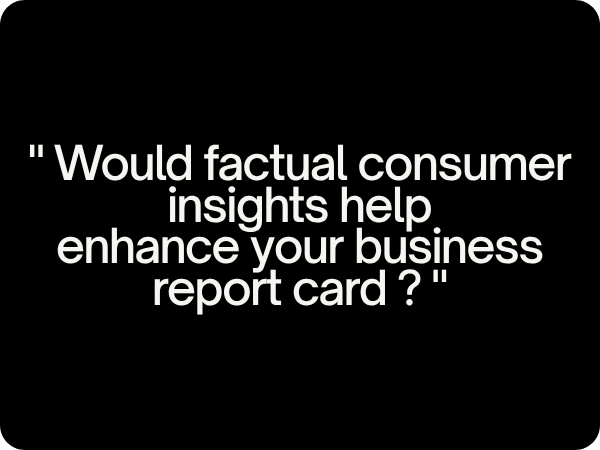
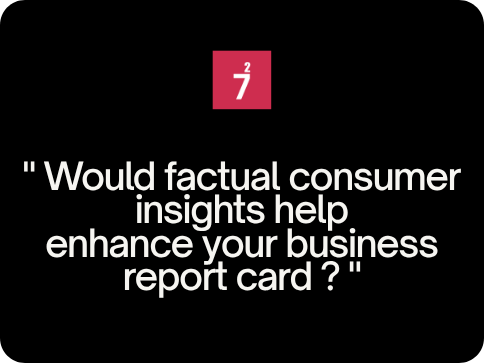
Hero Image

diff --git a/index.html b/index.html
@@ -1,4 +1,4 @@
-<!DOCTYPE html PUBLIC "-//W3C//DTD XHTML 1.0 Transitional//EN" "http://www.w3.org/TR/xhtml1/DTD/xhtml1-transitional.dtd"><html><head><meta name="viewport" content="width=device-width, initial-scale=1.0"><link rel="preload" as="image" href="images/c43ea1fd86c2809b867e1a71cf5d37f9.png"><meta http-equiv="Content-Type" content="text/html; charset=UTF-8"><meta name="format-detection" content="telephone=no, date=no, address=no, email=no"><meta name="x-apple-disable-message-reformatting"><meta name="keywords" content="DAG1_gGXu6g, BAFpv_WpB08"><!--[if mso]><div>
+<!DOCTYPE html PUBLIC "-//W3C//DTD XHTML 1.0 Transitional//EN" "http://www.w3.org/TR/xhtml1/DTD/xhtml1-transitional.dtd"><html><head><meta name="viewport" content="width=device-width, initial-scale=1.0"><link rel="preload" as="image" href="images/92f59e16664be76fd266f2fcb0073bc9.png"><meta http-equiv="Content-Type" content="text/html; charset=UTF-8"><meta name="format-detection" content="telephone=no, date=no, address=no, email=no"><meta name="x-apple-disable-message-reformatting"><meta name="keywords" content="DAG1_gGXu6g, BAFpv_WpB08"><!--[if mso]><div>
                 <noscript>
                   <xml>
                     <o:OfficeDocumentSettings>
@@ -22,8 +22,8 @@
                           <td><![endif]--><table align="center" width="100%" border="0" cellpadding="0" cellspacing="0" role="presentation" style="max-width:600px;margin:0 auto;background-color:#ffffff"><tbody><tr><td style="padding:10px
            0px
            0px
-           0px"><table align="center" width="100%" border="0" cellpadding="0" cellspacing="0" role="presentation"><tbody><tr><td style="padding:10px 0 10px 0"><table align="center" width="100%" border="0" cellpadding="0" cellspacing="0" role="presentation" style="color:#000;font-style:normal;font-weight:normal;font-size:16px;line-height:1.4;letter-spacing:0;text-align:left;direction:ltr;border-collapse:collapse;font-family:Arial, Helvetica, sans-serif;white-space:normal;word-wrap:break-word;word-break:break-word"><tbody><tr><td style="padding:0px 20px"><table cellpadding="0" cellspacing="0" border="0" style="width:100%"><tbody><tr><td align="center"><table cellpadding="0" cellspacing="0" border="0" style="width:100%;max-width:560px"><tbody><tr><td style="width:100%;padding:0"><img src="static/hero.png" width="560" height="420" style="display:block;width:100%;height:auto;max-width:100%"></td></tr></tbody></table></td></tr></tbody></table></td></tr><tr><td style="font-size:0;height:16px" height="16">&nbsp;</td></tr><tr><td dir="ltr" style="color:#0e1b10;font-size:18.6667px;line-height:0.8;text-align:center;padding:0px 20px"><span style="font-weight:700;letter-spacing:-0.04em;white-space:pre-wrap">Measurable Impact </span><span style="letter-spacing:-0.03em;white-space:pre-wrap">anytime, anywhere.</span><span style="letter-spacing:-0.03em;white-space:pre-wrap"><br></span></td></tr><tr><td style="font-size:0;height:16px" height="16">&nbsp;</td></tr><tr><td dir="ltr" style="color:#0e1b10;font-size:18.6667px;line-height:0.8;text-align:center;padding:0px 20px"><span style="font-weight:700;letter-spacing:-0.04em;white-space:pre-wrap">See Consumer Habits Change </span><span style="letter-spacing:-0.04em;white-space:pre-wrap">in</span><span style="letter-spacing:-0.03em;white-space:pre-wrap"> real-time.</span><span style="letter-spacing:-0.03em;white-space:pre-wrap"><br></span></td></tr><tr><td style="font-size:0;height:16px" height="16">&nbsp;</td></tr><tr><td dir="ltr" style="color:#0e1b10;font-size:18.6667px;line-height:0.8;text-align:center;padding:0px 20px"><span style="font-weight:700;letter-spacing:-0.04em;white-space:pre-wrap">Artificial Intelligence </span><span style="letter-spacing:-0.03em;white-space:pre-wrap">built in.</span><span style="letter-spacing:-0.03em;white-space:pre-wrap"><br></span></td></tr><tr><td style="font-size:0;height:16px" height="16">&nbsp;</td></tr><tr><td dir="ltr" style="color:#0e1b10;font-size:18.6667px;letter-spacing:-0.03em;white-space:pre-wrap;line-height:0.8;text-align:center;padding:0px 20px"><br></td></tr><tr><td style="font-size:0;height:16px" height="16">&nbsp;</td></tr><tr><td style="padding:0px 20px"><table cellpadding="0" cellspacing="0" border="0" style="width:100%"><tbody><tr><td align="center"><table cellpadding="0" cellspacing="0" border="0" style="width:100%;max-width:560px"><tbody><tr><td style="width:100%;padding:0"><hr style="display:block;width:100%;border:none;margin:0;max-width:560px;height:1px;background:#bfc3c8"></td></tr></tbody></table></td></tr></tbody></table></td></tr><tr><td style="font-size:0;height:16px" height="16">&nbsp;</td></tr><tr><td style="padding:0px 20px"><table cellpadding="0" cellspacing="0" border="0" style="width:100%"><tbody><tr><td align="center"><table cellpadding="0" cellspacing="0" border="0" style="width:100%;max-width:164px"><tbody><tr><td style="width:100%;padding:20 0"><a href="#" ses:no-track="" target="_blank" rel="noopener" style="display:table;width:100%;height:50px;text-decoration:none;border-collapse:separate;box-sizing:border-box;border-spacing:0;padding:8px;background-color:#ce2d4f;border-top-left-radius:100px;border-top-right-radius:100px;border-bottom-left-radius:100px;border-bottom-right-radius:100px"><span style="color:#ffffff;font-size:18.6667px;font-weight:bold;font-family:Arial, Helvetica, sans-serif;font-style:normal;text-decoration:none;direction:ltr;text-align:center;line-height:1.4em;letter-spacing:0em;display:table-cell;width:100%;height:100%;vertical-align:middle;box-sizing:border-box">Reach Out
-</span></a></td></tr></tbody></table></td></tr></tbody></table></td></tr></tbody></table></td></tr></tbody></table><table border="0" cellpadding="0" cellspacing="0" class="layout-0" align="center" style="display:table;border-spacing:0px;border-collapse:separate;width:100%;max-width:100%;table-layout:fixed;margin:0 auto;background-color:#070300"><tbody><tr><td style="text-align:center;padding:31.130414418485458px 20px"><table border="0" cellpadding="0" cellspacing="0" style="border-spacing:0px;border-collapse:separate;width:100%;max-width:522px;table-layout:fixed;margin:0 auto"><tbody><tr><td width="100.00%" style="width:100.00%;box-sizing:border-box;vertical-align:top"><table border="0" cellpadding="0" cellspacing="0" style="border-spacing:0px;border-collapse:separate;width:100%;table-layout:fixed"><tbody><tr><td style="padding:7px"><table align="center" width="100%" border="0" cellpadding="0" cellspacing="0" role="presentation" style="color:#000;font-style:normal;font-weight:normal;font-size:16px;line-height:1.4;letter-spacing:0;text-align:left;direction:ltr;border-collapse:collapse;font-family:Arial, Helvetica, sans-serif;white-space:normal;word-wrap:break-word;word-break:break-word"><tbody><tr><td dir="ltr" style="color:#f6f5f1;font-size:23.9998px;font-weight:700;letter-spacing:-0.01em;white-space:pre-wrap;line-height:1.2;text-align:left">For Real?<br></td></tr><tr><td style="font-size:0;height:16px" height="16">&nbsp;</td></tr><tr><td dir="ltr" style="color:#f6f5f1;font-size:17.3333px;letter-spacing:-0.01em;white-space:pre-wrap;line-height:1.2;text-align:left"><br></td></tr><tr><td style="font-size:0;height:16px" height="16">&nbsp;</td></tr><tr><td dir="ltr" style="color:#bfc3c8;font-size:13.3334px;letter-spacing:-0.01em;white-space:pre-wrap;line-height:1.15;text-align:left">Founded at the Founders Institute, Seventwos is a Singapore-incorporated company headquartered in Singapore.<br></td></tr><tr><td style="font-size:0;height:16px" height="16">&nbsp;</td></tr><tr><td dir="ltr" style="color:#ffffff;font-size:12px;line-height:1.15;text-align:left"><span style="background-color:#000000;white-space:pre-wrap">Copyright© Seventwos 2025. Seventwos Pte. Ltd. All rights reserved.</span><span style="background-color:#000000;white-space:pre-wrap"><br></span></td></tr></tbody></table></td></tr></tbody></table></td></tr></tbody></table></td></tr></tbody></table><!--[if !mso]><!--><table border="0" cellpadding="0" cellspacing="0" class="layout-0-under-450" align="center" style="display:none;border-spacing:0px;border-collapse:separate;width:100%;max-width:100%;table-layout:fixed;margin:0 auto;background-color:#070300"><tbody><tr><td style="text-align:center;padding:31.130414418485458px 20px"><table border="0" cellpadding="0" cellspacing="0" style="border-spacing:0px;border-collapse:separate;width:100%;max-width:420px;table-layout:fixed;margin:0 auto"><tbody><tr><td width="100.00%" style="width:100.00%;box-sizing:border-box;vertical-align:top"><table border="0" cellpadding="0" cellspacing="0" style="border-spacing:0px;border-collapse:separate;width:100%;table-layout:fixed"><tbody><tr><td style="padding:7px"><table align="center" width="100%" border="0" cellpadding="0" cellspacing="0" role="presentation" style="color:#000;font-style:normal;font-weight:normal;font-size:16px;line-height:1.4;letter-spacing:0;text-align:left;direction:ltr;border-collapse:collapse;font-family:Arial, Helvetica, sans-serif;white-space:normal;word-wrap:break-word;word-break:break-word"><tbody><tr><td dir="ltr" style="color:#f6f5f1;font-size:23.9998px;font-weight:700;letter-spacing:-0.01em;white-space:pre-wrap;line-height:1.2;text-align:left">For Real?<br></td></tr><tr><td style="font-size:0;height:16px" height="16">&nbsp;</td></tr><tr><td dir="ltr" style="color:#f6f5f1;font-size:17.3333px;letter-spacing:-0.01em;white-space:pre-wrap;line-height:1.2;text-align:left"><br></td></tr><tr><td style="font-size:0;height:16px" height="16">&nbsp;</td></tr><tr><td dir="ltr" style="color:#bfc3c8;font-size:13.3334px;letter-spacing:-0.01em;white-space:pre-wrap;line-height:1.15;text-align:left">Founded at the Founders Institute, Seventwos is a Singapore-incorporated company headquartered in Singapore.<br></td></tr><tr><td style="font-size:0;height:16px" height="16">&nbsp;</td></tr><tr><td dir="ltr" style="color:#ffffff;font-size:12px;line-height:1.15;text-align:left"><span style="background-color:#000000;white-space:pre-wrap">Copyright© Seventwos 2025. Seventwos Pte. Ltd. All rights reserved.</span><span style="background-color:#000000;white-space:pre-wrap"><br></span></td></tr></tbody></table></td></tr></tbody></table></td></tr></tbody></table></td></tr></tbody></table><!--<![endif]--></td></tr></tbody></table><!--[if mso]></td>
+           0px"><table align="center" width="100%" border="0" cellpadding="0" cellspacing="0" role="presentation"><tbody><tr><td style="padding:10px 0 10px 0"><table align="center" width="100%" border="0" cellpadding="0" cellspacing="0" role="presentation" style="color:#000;font-style:normal;font-weight:normal;font-size:16px;line-height:1.4;letter-spacing:0;text-align:left;direction:ltr;border-collapse:collapse;font-family:Arial, Helvetica, sans-serif;white-space:normal;word-wrap:break-word;word-break:break-word"><tbody><tr><td dir="ltr" style="font-size:16px;white-space:pre-wrap;text-align:left;padding:0px 20px"><br></td></tr><tr><td style="font-size:0;height:16px" height="16">&nbsp;</td></tr><tr><td style="padding:0px 20px"><table cellpadding="0" cellspacing="0" border="0" style="width:100%"><tbody><tr><td align="center"><table cellpadding="0" cellspacing="0" border="0" style="width:100%;max-width:484px"><tbody><tr><td style="width:100%;padding:20 0"><img src="images/92f59e16664be76fd266f2fcb0073bc9.png" width="484" height="363" style="display:block;width:100%;height:auto;max-width:100%"></td></tr></tbody></table></td></tr></tbody></table></td></tr><tr><td style="font-size:0;height:16px" height="16">&nbsp;</td></tr><tr><td dir="ltr" style="color:#0e1b10;font-size:18.6667px;line-height:0.8;text-align:center;padding:0px 20px"><span style="font-weight:700;letter-spacing:-0.04em;white-space:pre-wrap">Measurable Impact </span><span style="letter-spacing:-0.03em;white-space:pre-wrap">anytime, anywhere.</span><span style="letter-spacing:-0.03em;white-space:pre-wrap"><br></span></td></tr><tr><td style="font-size:0;height:16px" height="16">&nbsp;</td></tr><tr><td dir="ltr" style="color:#0e1b10;font-size:18.6667px;line-height:0.8;text-align:center;padding:0px 20px"><span style="font-weight:700;letter-spacing:-0.04em;white-space:pre-wrap">See Consumer Habits Change </span><span style="letter-spacing:-0.04em;white-space:pre-wrap">in</span><span style="letter-spacing:-0.03em;white-space:pre-wrap"> real-time.</span><span style="letter-spacing:-0.03em;white-space:pre-wrap"><br></span></td></tr><tr><td style="font-size:0;height:16px" height="16">&nbsp;</td></tr><tr><td dir="ltr" style="color:#0e1b10;font-size:18.6667px;line-height:0.8;text-align:center;padding:0px 20px"><span style="font-weight:700;letter-spacing:-0.04em;white-space:pre-wrap">Artificial Intelligence </span><span style="letter-spacing:-0.03em;white-space:pre-wrap">built in.</span><span style="letter-spacing:-0.03em;white-space:pre-wrap"><br></span></td></tr><tr><td style="font-size:0;height:16px" height="16">&nbsp;</td></tr><tr><td dir="ltr" style="color:#0e1b10;font-size:18.6667px;letter-spacing:-0.03em;white-space:pre-wrap;line-height:0.8;text-align:center;padding:0px 20px"><br></td></tr><tr><td style="font-size:0;height:16px" height="16">&nbsp;</td></tr><tr><td style="padding:0px 20px"><table cellpadding="0" cellspacing="0" border="0" style="width:100%"><tbody><tr><td align="center"><table cellpadding="0" cellspacing="0" border="0" style="width:100%;max-width:560px"><tbody><tr><td style="width:100%;padding:0"><hr style="display:block;width:100%;border:none;margin:0;max-width:560px;height:1px;background:#bfc3c8"></td></tr></tbody></table></td></tr></tbody></table></td></tr><tr><td style="font-size:0;height:16px" height="16">&nbsp;</td></tr><tr><td style="padding:0px 20px"><table cellpadding="0" cellspacing="0" border="0" style="width:100%"><tbody><tr><td align="center"><table cellpadding="0" cellspacing="0" border="0" style="width:100%;max-width:164px"><tbody><tr><td style="width:100%;padding:20 0"><a href="#" ses:no-track="" target="_blank" rel="noopener" style="display:table;width:100%;height:50px;text-decoration:none;border-collapse:separate;box-sizing:border-box;border-spacing:0;padding:8px;background-color:#ce2d4f;border-top-left-radius:100px;border-top-right-radius:100px;border-bottom-left-radius:100px;border-bottom-right-radius:100px"><span style="color:#ffffff;font-size:18.6667px;font-weight:bold;font-family:Arial, Helvetica, sans-serif;font-style:normal;text-decoration:none;direction:ltr;text-align:center;line-height:1.4em;letter-spacing:0em;display:table-cell;width:100%;height:100%;vertical-align:middle;box-sizing:border-box">TALK TO US
+</span></a></td></tr></tbody></table></td></tr></tbody></table></td></tr><tr><td style="font-size:0;height:16px" height="16">&nbsp;</td></tr><tr><td dir="ltr" style="font-size:16px;white-space:pre-wrap;text-align:left;padding:0px 20px"> <br></td></tr></tbody></table></td></tr></tbody></table><table border="0" cellpadding="0" cellspacing="0" class="layout-0" align="center" style="display:table;border-spacing:0px;border-collapse:separate;width:100%;max-width:100%;table-layout:fixed;margin:0 auto;background-color:#070300"><tbody><tr><td style="text-align:center;padding:31.130414418485458px 20px"><table border="0" cellpadding="0" cellspacing="0" style="border-spacing:0px;border-collapse:separate;width:100%;max-width:522px;table-layout:fixed;margin:0 auto"><tbody><tr><td width="100.00%" style="width:100.00%;box-sizing:border-box;vertical-align:top"><table border="0" cellpadding="0" cellspacing="0" style="border-spacing:0px;border-collapse:separate;width:100%;table-layout:fixed"><tbody><tr><td style="padding:7px"><table align="center" width="100%" border="0" cellpadding="0" cellspacing="0" role="presentation" style="color:#000;font-style:normal;font-weight:normal;font-size:16px;line-height:1.4;letter-spacing:0;text-align:left;direction:ltr;border-collapse:collapse;font-family:Arial, Helvetica, sans-serif;white-space:normal;word-wrap:break-word;word-break:break-word"><tbody><tr><td dir="ltr" style="color:#f6f5f1;font-size:23.9998px;font-weight:700;letter-spacing:-0.01em;white-space:pre-wrap;line-height:1.2;text-align:left">For Real?<br></td></tr><tr><td style="font-size:0;height:16px" height="16">&nbsp;</td></tr><tr><td dir="ltr" style="color:#bfc3c8;font-size:13.3334px;letter-spacing:-0.01em;white-space:pre-wrap;line-height:1.15;text-align:left">Founded at the Founders Institute, Seventwos is a Singapore-incorporated company headquartered in Singapore.<br></td></tr><tr><td style="font-size:0;height:16px" height="16">&nbsp;</td></tr><tr><td dir="ltr" style="color:#ffffff;font-size:12px;line-height:1.15;text-align:left"><span style="background-color:#000000;white-space:pre-wrap">Copyright© Seventwos 2025. Seventwos Pte. Ltd. All rights reserved.</span><span style="background-color:#000000;white-space:pre-wrap"><br></span></td></tr></tbody></table></td></tr></tbody></table></td></tr></tbody></table></td></tr></tbody></table><!--[if !mso]><!--><table border="0" cellpadding="0" cellspacing="0" class="layout-0-under-450" align="center" style="display:none;border-spacing:0px;border-collapse:separate;width:100%;max-width:100%;table-layout:fixed;margin:0 auto;background-color:#070300"><tbody><tr><td style="text-align:center;padding:31.130414418485458px 20px"><table border="0" cellpadding="0" cellspacing="0" style="border-spacing:0px;border-collapse:separate;width:100%;max-width:420px;table-layout:fixed;margin:0 auto"><tbody><tr><td width="100.00%" style="width:100.00%;box-sizing:border-box;vertical-align:top"><table border="0" cellpadding="0" cellspacing="0" style="border-spacing:0px;border-collapse:separate;width:100%;table-layout:fixed"><tbody><tr><td style="padding:7px"><table align="center" width="100%" border="0" cellpadding="0" cellspacing="0" role="presentation" style="color:#000;font-style:normal;font-weight:normal;font-size:16px;line-height:1.4;letter-spacing:0;text-align:left;direction:ltr;border-collapse:collapse;font-family:Arial, Helvetica, sans-serif;white-space:normal;word-wrap:break-word;word-break:break-word"><tbody><tr><td dir="ltr" style="color:#f6f5f1;font-size:23.9998px;font-weight:700;letter-spacing:-0.01em;white-space:pre-wrap;line-height:1.2;text-align:left">For Real?<br></td></tr><tr><td style="font-size:0;height:16px" height="16">&nbsp;</td></tr><tr><td dir="ltr" style="color:#bfc3c8;font-size:13.3334px;letter-spacing:-0.01em;white-space:pre-wrap;line-height:1.15;text-align:left">Founded at the Founders Institute, Seventwos is a Singapore-incorporated company headquartered in Singapore.<br></td></tr><tr><td style="font-size:0;height:16px" height="16">&nbsp;</td></tr><tr><td dir="ltr" style="color:#ffffff;font-size:12px;line-height:1.15;text-align:left"><span style="background-color:#000000;white-space:pre-wrap">Copyright© Seventwos 2025. Seventwos Pte. Ltd. All rights reserved.</span><span style="background-color:#000000;white-space:pre-wrap"><br></span></td></tr></tbody></table></td></tr></tbody></table></td></tr></tbody></table></td></tr></tbody></table><!--<![endif]--></td></tr></tbody></table><!--[if mso]></td>
                 </tr>
               </tbody>
             </table>
